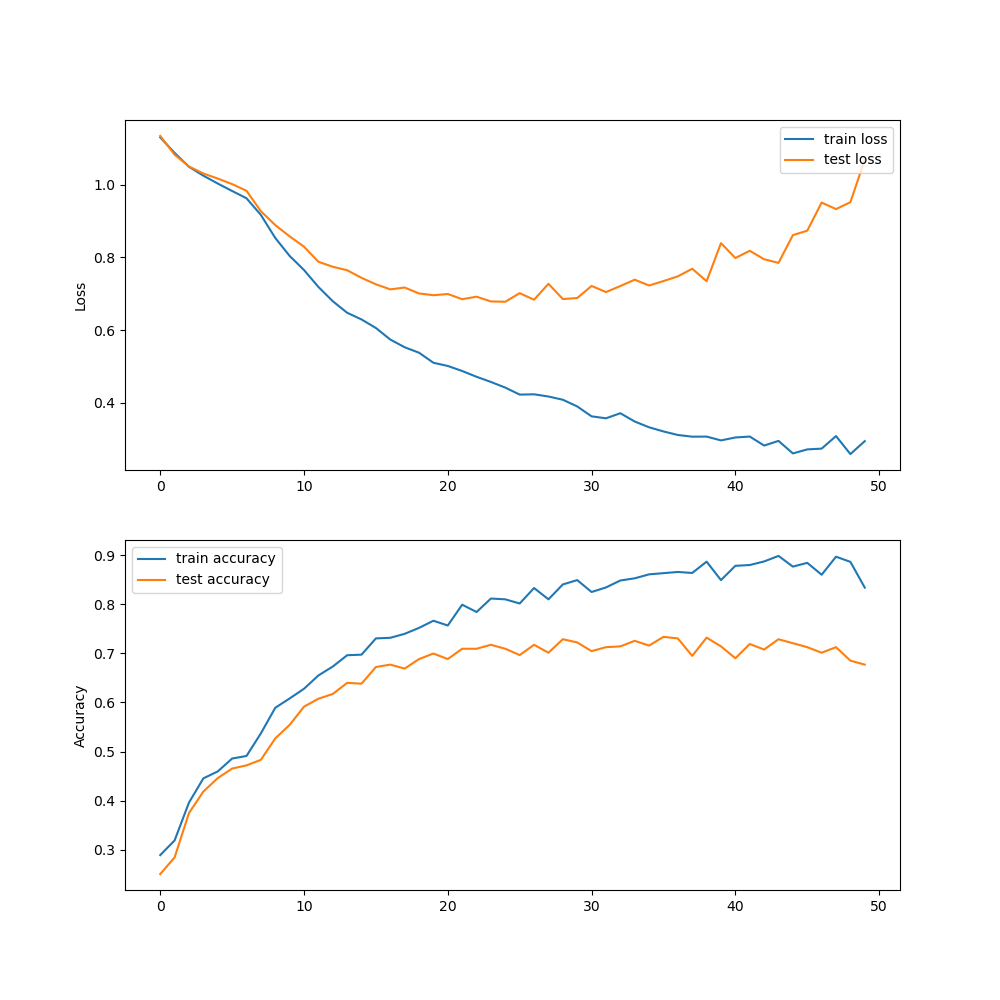
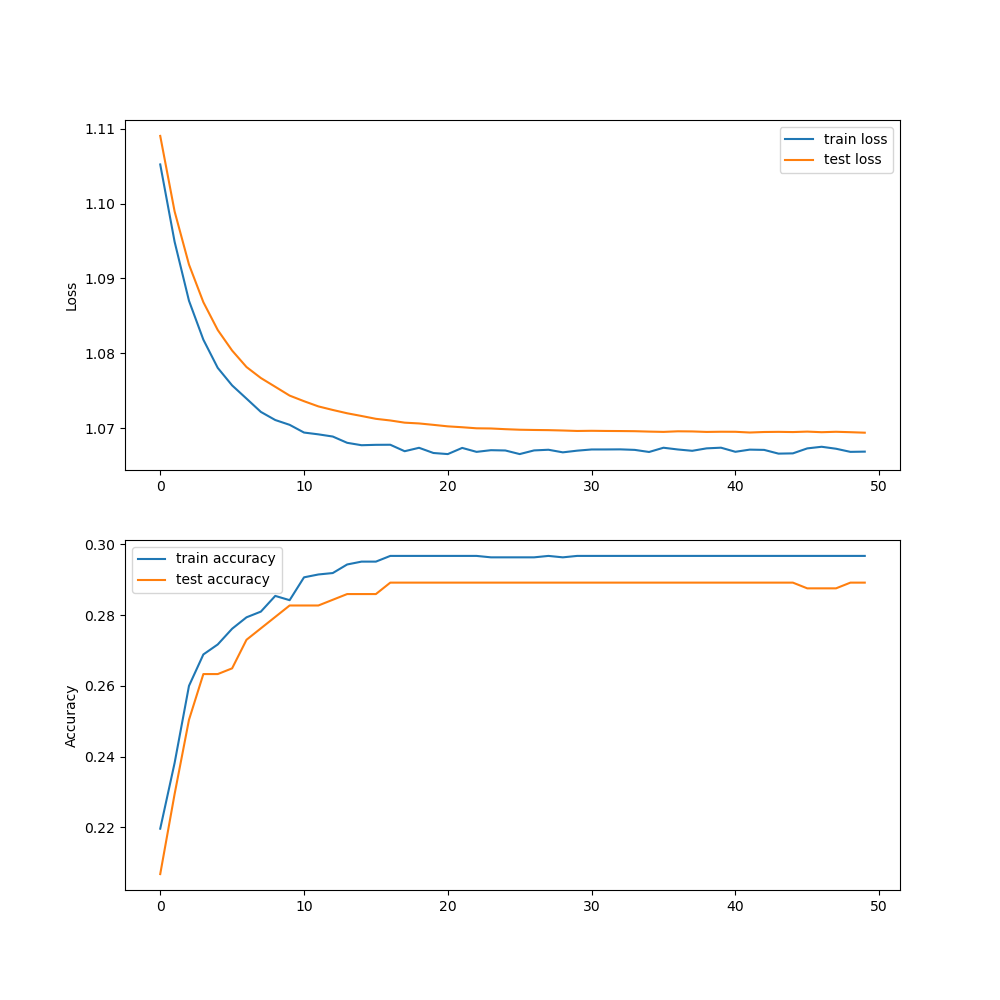
addressed memory issues, still getting nan issues with loss

diff --git a/v2/runner.py b/v2/runner.py
@@ -123,9 +123,9 @@ if __name__ == '__main__':
 
     # RUNNING SEQUENTIAL
     # modelSequential = ConvNetOneSequential(out_dim=4, input_shape=(3,64,64), filter_shape=(1,5,5))
-    modelSequential = ConvNetTwoSequential(out_dim=4, input_shape=(3,64,64), filter_shape=(1,5,5))
-    train_model(modelSequential, EPOCHS, BATCH_SIZE, LEARNING_RATE, MOMENTUM, trainX, trainY, pureTrainY, testX, testY, pureTestY, False)
+    # modelSequential = ConvNetTwoSequential(out_dim=4, input_shape=(3,64,64), filter_shape=(1,5,5))
+    # train_model(modelSequential, EPOCHS, BATCH_SIZE, LEARNING_RATE, MOMENTUM, trainX, trainY, pureTrainY, testX, testY, pureTestY, False)
 
     # RUNNING DATA PARALLELISM
-    # modelDataParallel = ConvNetOneDataParallel(out_dim=4, input_shape=(3,64,64), filter_shape=(1,5,5))
-    # train_model(modelDataParallel, EPOCHS, BATCH_SIZE, LEARNING_RATE, MOMENTUM, trainX, trainY, pureTrainY, testX, testY, pureTestY, True)
+    modelDataParallel = ConvNetOneDataParallel(out_dim=4, input_shape=(3,64,64), filter_shape=(1,5,5))
+    train_model(modelDataParallel, EPOCHS, BATCH_SIZE, LEARNING_RATE, MOMENTUM, trainX, trainY, pureTrainY, testX, testY, pureTestY, True)

diff --git a/v2/helpers.py b/v2/helpers.py
@@ -5,7 +5,7 @@ def im2col(X, k_height, k_width, padding=1, stride=1):
 
     out_height = (H + 2*padding - k_height)//stride + 1
     out_width = (W + 2*padding - k_width)//stride + 1
-    out = np.zeros((k_height, k_width, N, C, out_height, out_width))
+    out = np.zeros((k_height, k_width, N, C, out_height, out_width), dtype=np.float32)
     
     padded_X = np.pad(X, [(0,0), (0,0), (padding, padding), (padding, padding)])
 
@@ -28,7 +28,7 @@ def im2col_bw(grad_X_col, X_shape, k_height, k_width, padding=1, stride=1):
     grad_reshape = np.reshape(grad_X_col, (C, k_height, k_width, out_height, out_width, N))
     grad_transpose = np.transpose(grad_reshape, (1, 2, 5, 0, 3, 4))
 
-    input = np.zeros((N, C, H + 2*padding, W + 2*padding))
+    input = np.zeros((N, C, H + 2*padding, W + 2*padding), dtype=np.float32)
     r_end = stride*out_height
     for r in range(k_height):
         c_end = stride*out_width
